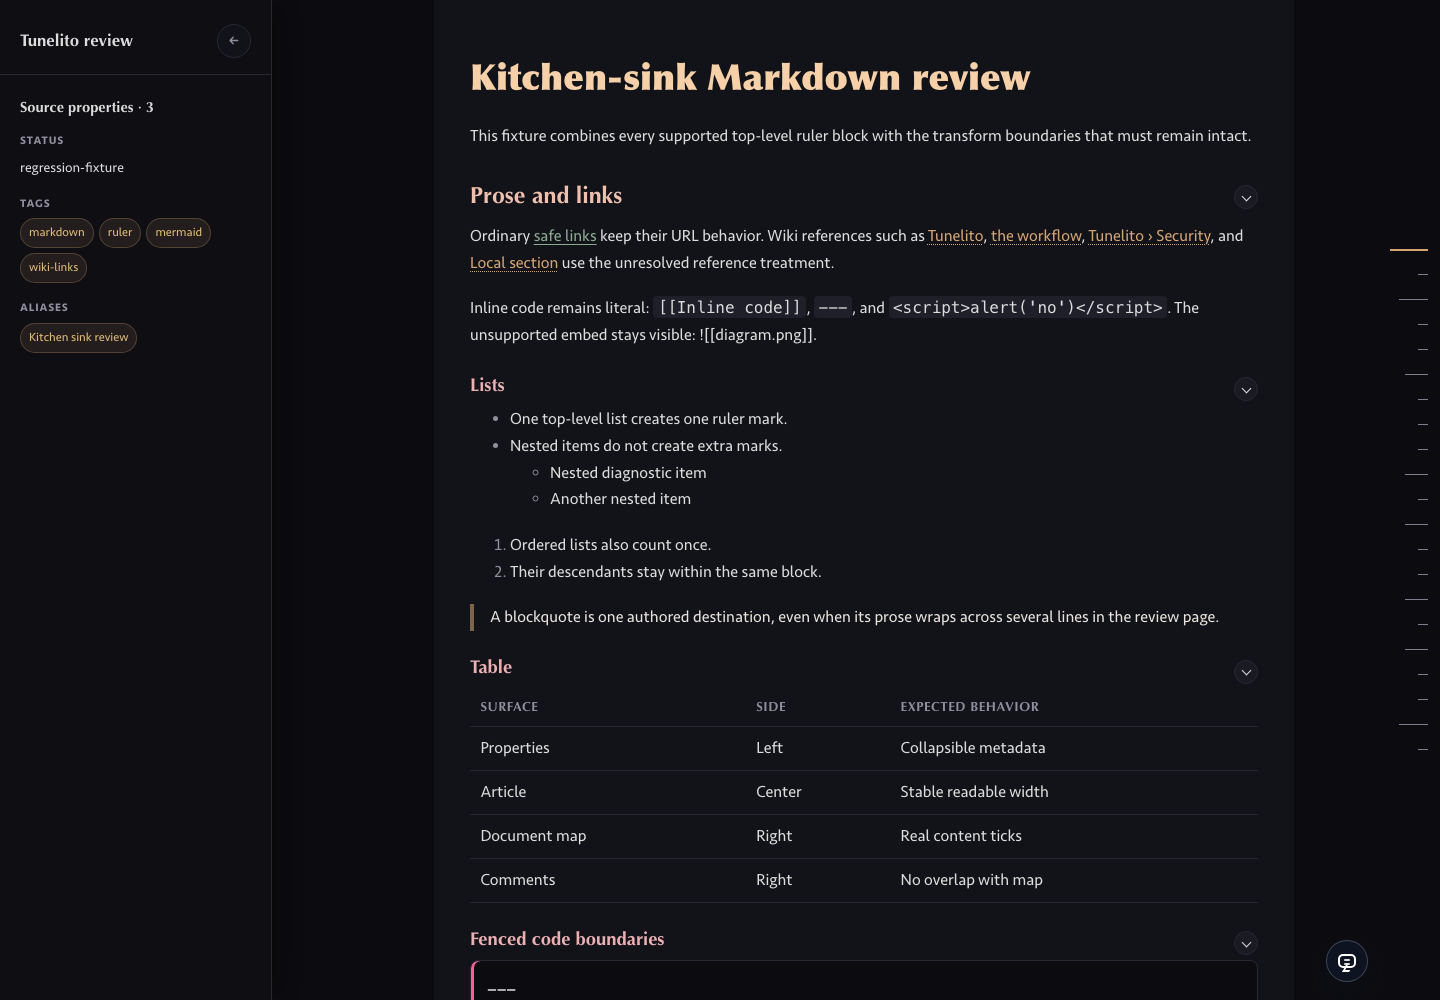
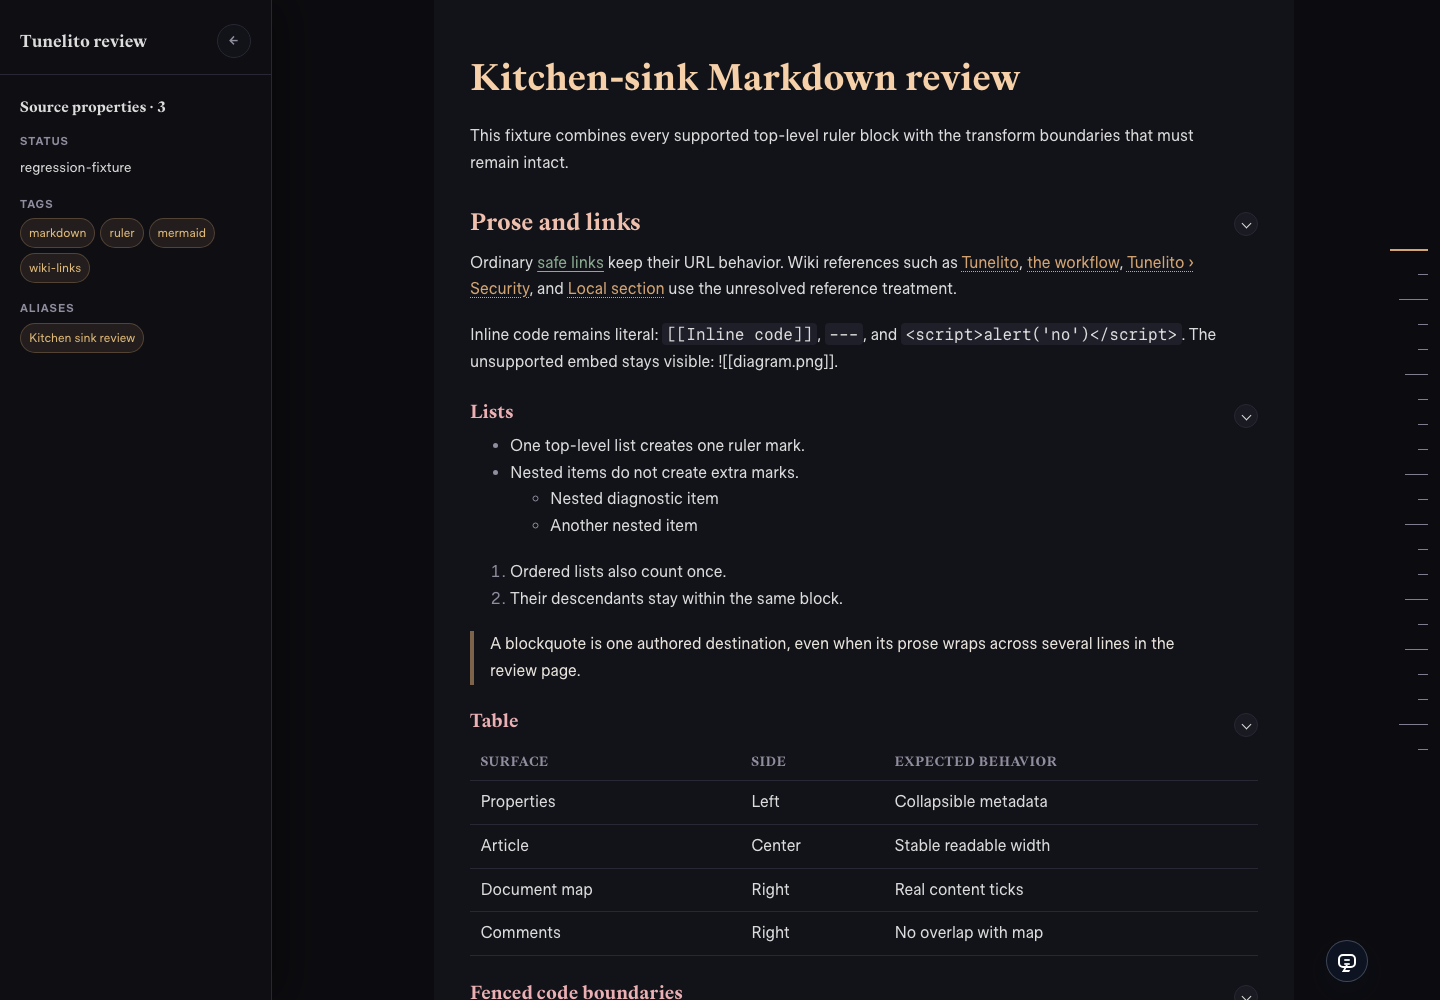
feat(themes): set bns-pitaya in Timeless and bundle Paper Mono (#160)
- bns-pitaya leads with Timeless Serif (headings) and Timeless Sans
  (text) by name only; Timeless's license forbids bundling, so viewers
  without it keep the humanist system fallbacks.
- Paper Mono (SIL OFL 1.1) ships as a 53 KB variable WOFF2 with its
  license in src/fonts, declared via @font-face (local() first) and
  served same-origin at /__tunelito/fonts/paper-mono.woff2 behind the
  review key. No network fonts.
- Docs, changelog, and bns-pitaya reference screenshots updated.

diff --git a/src/server.js b/src/server.js
@@ -9,7 +9,7 @@ import { buildAgentStatusSnapshot, defaultAgentLogPath, fingerprintComment, load
 import { defaultCommentsPath, createCommentStore, createMemoryCommentStore, isSiteComment, normalizeReviewerId, renderCommentsMarkdown } from "./comments.js";
 import { AGENT_STATUS_ROUTE, CLIENT_ROUTE, COMMENTS_ROUTE, REVIEW_EVENTS_ROUTE, SESSION_STATUS_ROUTE, SOURCE_ROUTE, TUNELITO_RESPONSE_HEADER, WS_ROUTE, injectTunelitoClient } from "./inject.js";
 import { LINK_PREVIEW_REQUEST_HEADER, LINK_PREVIEW_ROUTE, createLinkPreviewResolver } from "./link-preview.js";
-import { MARKDOWN_CLIENT_ROUTE, MERMAID_CLIENT_ROUTE, MERMAID_LIBRARY_ROUTE, isMarkdownPath, normalizeMarkdownCssHref, renderFolderLandingDocument, renderMarkdownDocument } from "./markdown.js";
+import { MARKDOWN_CLIENT_ROUTE, MERMAID_CLIENT_ROUTE, MERMAID_LIBRARY_ROUTE, PAPER_MONO_ROUTE, isMarkdownPath, normalizeMarkdownCssHref, renderFolderLandingDocument, renderMarkdownDocument } from "./markdown.js";
 import { contentTypeFor } from "./mime.js";
 import { SourceEditError, readBoundedUtf8Body, readMarkdownSourceSnapshot, writeMarkdownSourceSnapshot } from "./source-edit.js";
 import { DEFAULT_THEME_NAME } from "./themes.js";
@@ -19,6 +19,7 @@ const CLIENT_PATH = resolve(dirname(fileURLToPath(import.meta.url)), "client.js"
 const MARKDOWN_CLIENT_PATH = resolve(dirname(fileURLToPath(import.meta.url)), "markdown-client.js");
 const MERMAID_CLIENT_PATH = resolve(dirname(fileURLToPath(import.meta.url)), "mermaid-client.js");
 const MERMAID_LIBRARY_PATH = join(dirname(createRequire(import.meta.url).resolve("mermaid")), "mermaid.min.js");
+const PAPER_MONO_PATH = resolve(dirname(fileURLToPath(import.meta.url)), "fonts", "PaperMono-Variable.woff2");
 export const ACCESS_KEY_PARAM = "tunelito_key";
 export const PAGE_PARAM = "tunelito_page";
 const REVIEWER_ID_PARAM = "tunelito_reviewer_id";
@@ -461,6 +462,12 @@ function handleRequest({ req, res, filePath, targetPath, rootDir, rootRealDir, d
 
   if (pathname === MERMAID_CLIENT_ROUTE) {
     sendFile(res, MERMAID_CLIENT_PATH, "text/javascript; charset=utf-8", req.method, responseHeaders);
+    return;
+  }
+
+  if (pathname === PAPER_MONO_ROUTE) {
+    // Immutable packaged asset: cache it for the session instead of no-store.
+    sendFile(res, PAPER_MONO_PATH, "font/woff2", req.method, { ...responseHeaders, "cache-control": "private, max-age=86400" });
     return;
   }
 

diff --git a/test/server.test.js b/test/server.test.js
@@ -7,7 +7,7 @@ import { join } from "node:path";
 import { tmpdir } from "node:os";
 import { createTunelitoServer, isIgnoredWatchFilename, isLocalOwnerRequest } from "../src/server.js";
 import { AGENT_STATUS_ROUTE, CLIENT_ROUTE, REVIEW_EVENTS_ROUTE, SOURCE_ROUTE } from "../src/inject.js";
-import { MARKDOWN_CLIENT_ROUTE, MERMAID_CLIENT_ROUTE, MERMAID_LIBRARY_ROUTE } from "../src/markdown.js";
+import { MARKDOWN_CLIENT_ROUTE, MERMAID_CLIENT_ROUTE, MERMAID_LIBRARY_ROUTE, PAPER_MONO_ROUTE } from "../src/markdown.js";
 import { renderCommentsMarkdown } from "../src/comments.js";
 import { MAX_EDITABLE_SOURCE_BYTES } from "../src/source-edit.js";
 
@@ -159,6 +159,14 @@ test("server renders a Markdown file as an injected commentable page", async () 
     assert.match(markdownClientSource, /navigator\.clipboard\?\.writeText/);
     assert.match(markdownClientSource, /document\.execCommand\("copy"\)/);
     assert.match(markdownClientSource, /\[data-tunelito-mermaid\], \[data-tunelito-comment-ignore\]/);
+
+    // The bundled Paper Mono face is declared once and served same-origin.
+    assert.match(html, /@font-face \{\s*font-family: "Paper Mono";\s*src: local\("Paper Mono"\), url\("\/__tunelito\/fonts\/paper-mono\.woff2"\) format\("woff2"\)/);
+    assert.doesNotMatch(html, /fonts\.googleapis|fonts\.gstatic|https?:\/\/[^"')]*\.woff2/, "no network font sources");
+    const paperMono = await fetch(new URL(PAPER_MONO_ROUTE, instance.localUrl));
+    assert.equal(paperMono.status, 200);
+    assert.equal(paperMono.headers.get("content-type"), "font/woff2");
+    assert.equal(Buffer.from(await paperMono.arrayBuffer()).subarray(0, 4).toString("latin1"), "wOF2");
 
     const mermaidLibrary = await fetch(new URL(MERMAID_LIBRARY_ROUTE, instance.localUrl));
     assert.equal(mermaidLibrary.headers.get("content-type"), "text/javascript; charset=utf-8");

diff --git a/src/themes.js b/src/themes.js
@@ -21,7 +21,7 @@ export const THEME_DETAILS = Object.freeze({
     colorModes: ["light", "dark"],
   },
   "bns-pitaya": {
-    description: "A dark reading theme adapted from BNS Obsidian Pitaya without bundled or network fonts.",
+    description: "A dark reading theme adapted from BNS Obsidian Pitaya: Timeless Serif and Sans when installed, bundled Paper Mono for code, and no network fonts.",
     colorModes: ["dark"],
   },
 });
@@ -283,12 +283,13 @@ const THEMES = {
   "bns-pitaya": `
 :root[data-tunelito-theme="bns-pitaya"] {
   color-scheme: dark;
-  /* Installed humanist faces, no network fonts: Seravek (macOS) or Aptos /
-     Segoe UI Variable (Windows) for reading, flared Optima or Candara for
-     headings. */
-  --tl-font-body: Seravek, Aptos, "Segoe UI Variable Text", "Gill Sans Nova", ui-sans-serif, system-ui, sans-serif;
-  --tl-font-display: Optima, Candara, "Segoe UI Variable Display", ui-sans-serif, system-ui, sans-serif;
-  --tl-font-mono: "IBM Plex Mono", ui-monospace, SFMono-Regular, Menlo, monospace;
+  /* BNS type: Timeless Serif headings and Timeless Sans text when installed.
+     Timeless's license forbids bundling it, so viewers without it get
+     installed humanist faces (Optima/Candara, Seravek/Aptos/Segoe UI).
+     Paper Mono (OFL) is bundled and served same-origin for every viewer. */
+  --tl-font-body: "Timeless Sans", Seravek, Aptos, "Segoe UI Variable Text", "Gill Sans Nova", ui-sans-serif, system-ui, sans-serif;
+  --tl-font-display: "Timeless Serif", "Timeless Serif Text", Optima, Candara, "Segoe UI Variable Display", ui-serif, serif;
+  --tl-font-mono: "Paper Mono", ui-monospace, SFMono-Regular, Menlo, monospace;
   --tl-page-bg: #0c0c10;
   --tl-paper-bg: #121318;
   --tl-text: #dcdcdc;

diff --git a/src/markdown.js b/src/markdown.js
@@ -6,8 +6,18 @@ import { DEFAULT_THEME_NAME, normalizeThemeName, themeCss } from "./themes.js";
 export const MERMAID_LIBRARY_ROUTE = "/__tunelito/mermaid.js";
 export const MERMAID_CLIENT_ROUTE = "/__tunelito/mermaid-client.js";
 export const MARKDOWN_CLIENT_ROUTE = "/__tunelito/markdown-client.js";
+// Paper Mono (SIL OFL 1.1, license beside the file in src/fonts) is the one
+// bundled face: served same-origin from the package, never from a network CDN.
+export const PAPER_MONO_ROUTE = "/__tunelito/fonts/paper-mono.woff2";
 
 const DEFAULT_MARKDOWN_CSS = `
+@font-face {
+  font-family: "Paper Mono";
+  src: local("Paper Mono"), url("${PAPER_MONO_ROUTE}") format("woff2");
+  font-weight: 100 800;
+  font-style: normal;
+  font-display: swap;
+}
 :root {
   color-scheme: light dark;
   --tl-heading-line-height: 1.2;

diff --git a/test/config.test.js b/test/config.test.js
@@ -43,7 +43,7 @@ test("resolveTunelitoConfig reports stable defaults and available themes", () =>
     source: "default",
     configPath: null,
     details: {
-      description: "A dark reading theme adapted from BNS Obsidian Pitaya without bundled or network fonts.",
+      description: "A dark reading theme adapted from BNS Obsidian Pitaya: Timeless Serif and Sans when installed, bundled Paper Mono for code, and no network fonts.",
       colorModes: ["dark"],
     },
   });

diff --git a/src/mime.js b/src/mime.js
@@ -14,6 +14,8 @@ const TYPES = {
   ".txt": "text/plain; charset=utf-8",
   ".wasm": "application/wasm",
   ".webp": "image/webp",
+  ".woff": "font/woff",
+  ".woff2": "font/woff2",
 };
 
 export function contentTypeFor(pathname) {

diff --git a/CHANGELOG.md b/CHANGELOG.md
@@ -12,6 +12,7 @@
 - Speeds up selection and comment rendering. One text walk per task replaces repeated full-document walks, `selectionchange` settles for 120ms before capture, and the document map only updates markers that changed.
 - The composer uses the system font instead of falling back to the browser serif, and the Markdown sidebar labels rise to the 11px floor.
 - Removes the small uppercase labels above the Markdown sidebar headings. The headings now carry the provenance themselves: **Tunelito review**, **Served documents** (a nav named `Tunelito navigation` for assistive tech), and **Source properties · N**.
+- Sets `bns-pitaya` in the BNS faces. Headings use Timeless Serif and text uses Timeless Sans when the viewer has them installed. Timeless's license forbids bundling, so viewers without it get the humanist fallbacks below. Code uses **Paper Mono**, the first font bundled with Tunelito: a 53 KB variable WOFF2 under the SIL Open Font License (`src/fonts/PaperMono-OFL.txt`). It is declared with `@font-face` (an installed copy wins through `local()`) and served from `/__tunelito/fonts/paper-mono.woff2` behind the same review key as other Tunelito assets. It never comes from a font CDN.
 - Replaces the overused faces in two Markdown themes. Fonts are still installed system faces only, with no network fonts. `bns-pitaya` moves from Plus Jakarta Sans and Geist to Seravek for reading (with Aptos or Segoe UI Variable on Windows) and Optima for headings (Candara on Windows). `technical` drops Inter for IBM Plex Sans, falling back to Segoe UI Variable or Helvetica Neue. Markdown paragraphs, list items, and quotes use `text-wrap: pretty` to avoid a lone word on the last line. The theme reference screenshots are regenerated.
 
 ## 1.0.0 - 2026-11-02

diff --git a/README.md b/README.md
@@ -196,7 +196,7 @@ When a folder URL has no authored `index.html` or `index.md`, Tunelito serves an
 
 Tunelito ships four dependency-free themes:
 
-- `bns-pitaya` (default): a dark reading theme adapted from the [BNS Obsidian Pitaya Theme](https://github.com/chekos/bns-obsidian-pitaya-theme), using local font names with system fallbacks and no copied stylesheet, bundled fonts, or network assets
+- `bns-pitaya` (default): a dark reading theme adapted from the [BNS Obsidian Pitaya Theme](https://github.com/chekos/bns-obsidian-pitaya-theme), set in Timeless Serif (headings) and Timeless Sans (text) when they are installed on the viewer's machine, with Optima/Seravek-style system fallbacks, and code in Paper Mono, which ships with Tunelito under the SIL Open Font License and is served from the review server; no copied stylesheet and no network assets. Timeless is never bundled: its license forbids redistribution, so install it from [timeless.co](https://timeless.co) to see it
 - `default`: the original neutral, system-sans review surface
 - `editorial`: a spacious serif-led layout for essays and long-form drafts
 - `technical`: a wider, denser sans/mono layout for code, tables, diagrams, and documentation
